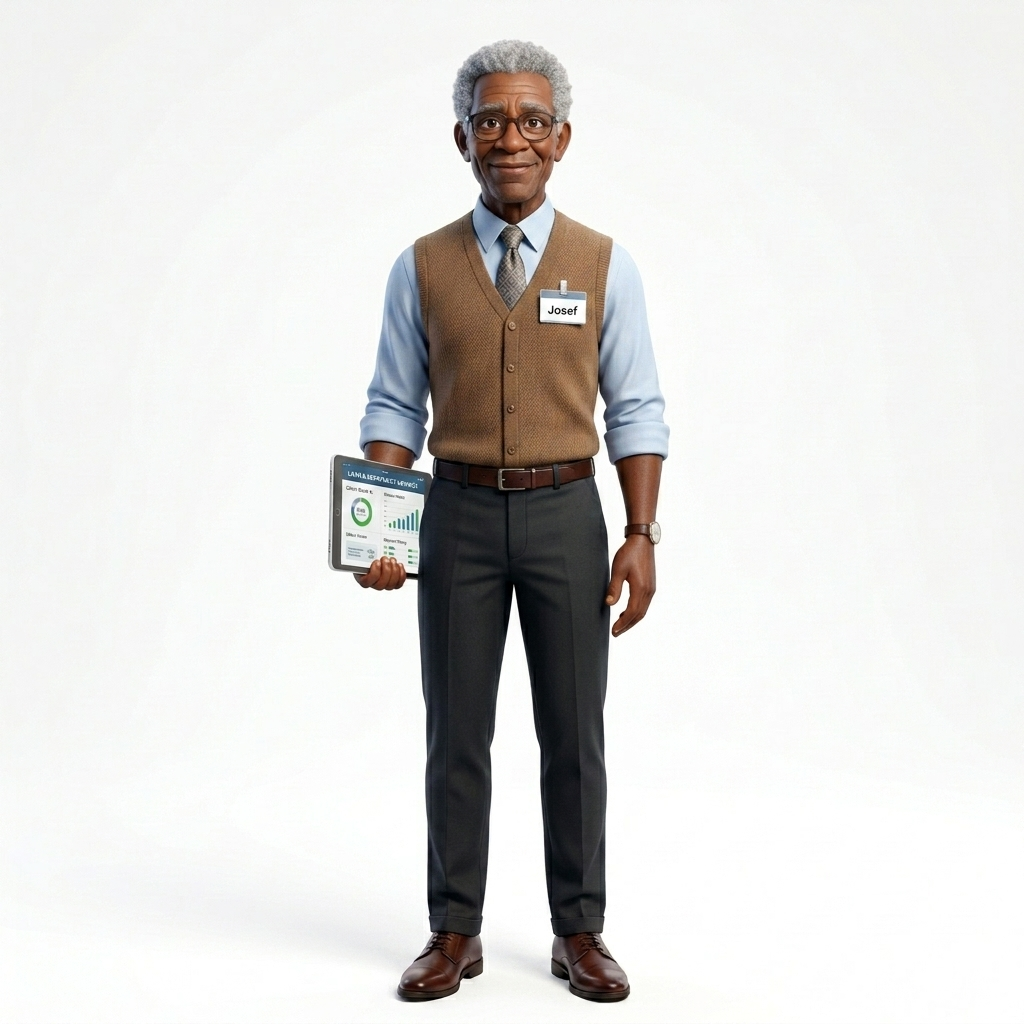
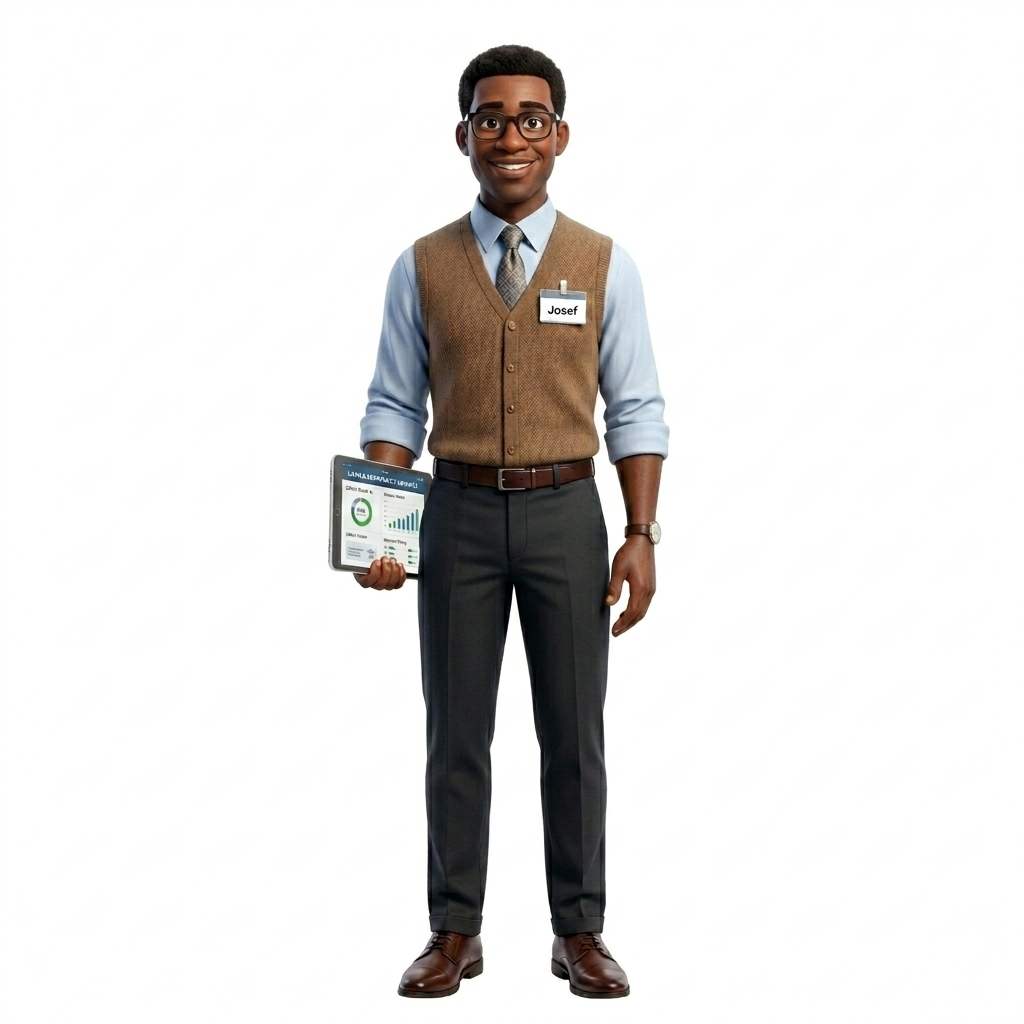
style: make visionary Josef character younger with black hair, matching original character

diff --git a/One Acre Fund/index.html b/One Acre Fund/index.html
@@ -2011,7 +2011,7 @@
         </div>
         <!-- Josef -->
         <div class="team-member">
-          <img src="../Images/josef_v3.png" alt="Josef" />
+          <img src="../Images/josef_v3.png?v=2" alt="Josef" />
           <div class="team-name-tag">
             <h4>Josef</h4>
             <p>Loan Advisor</p>